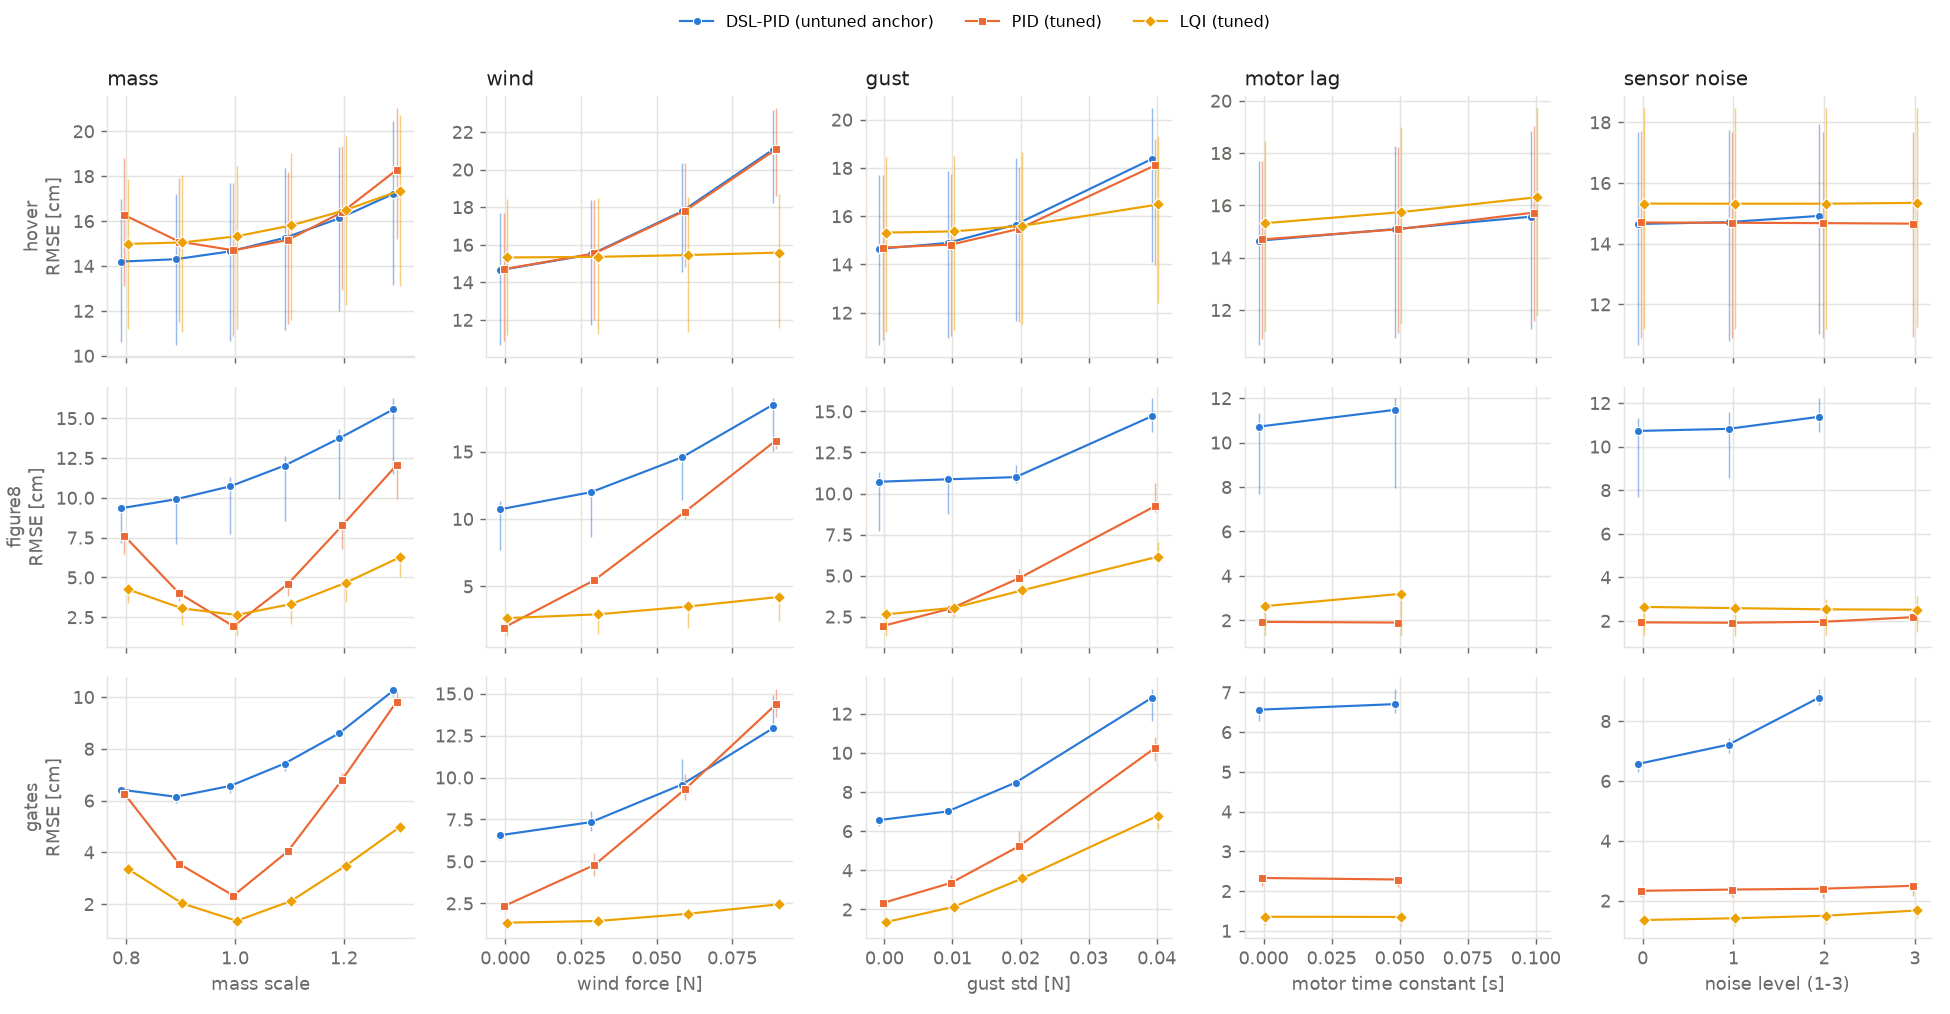
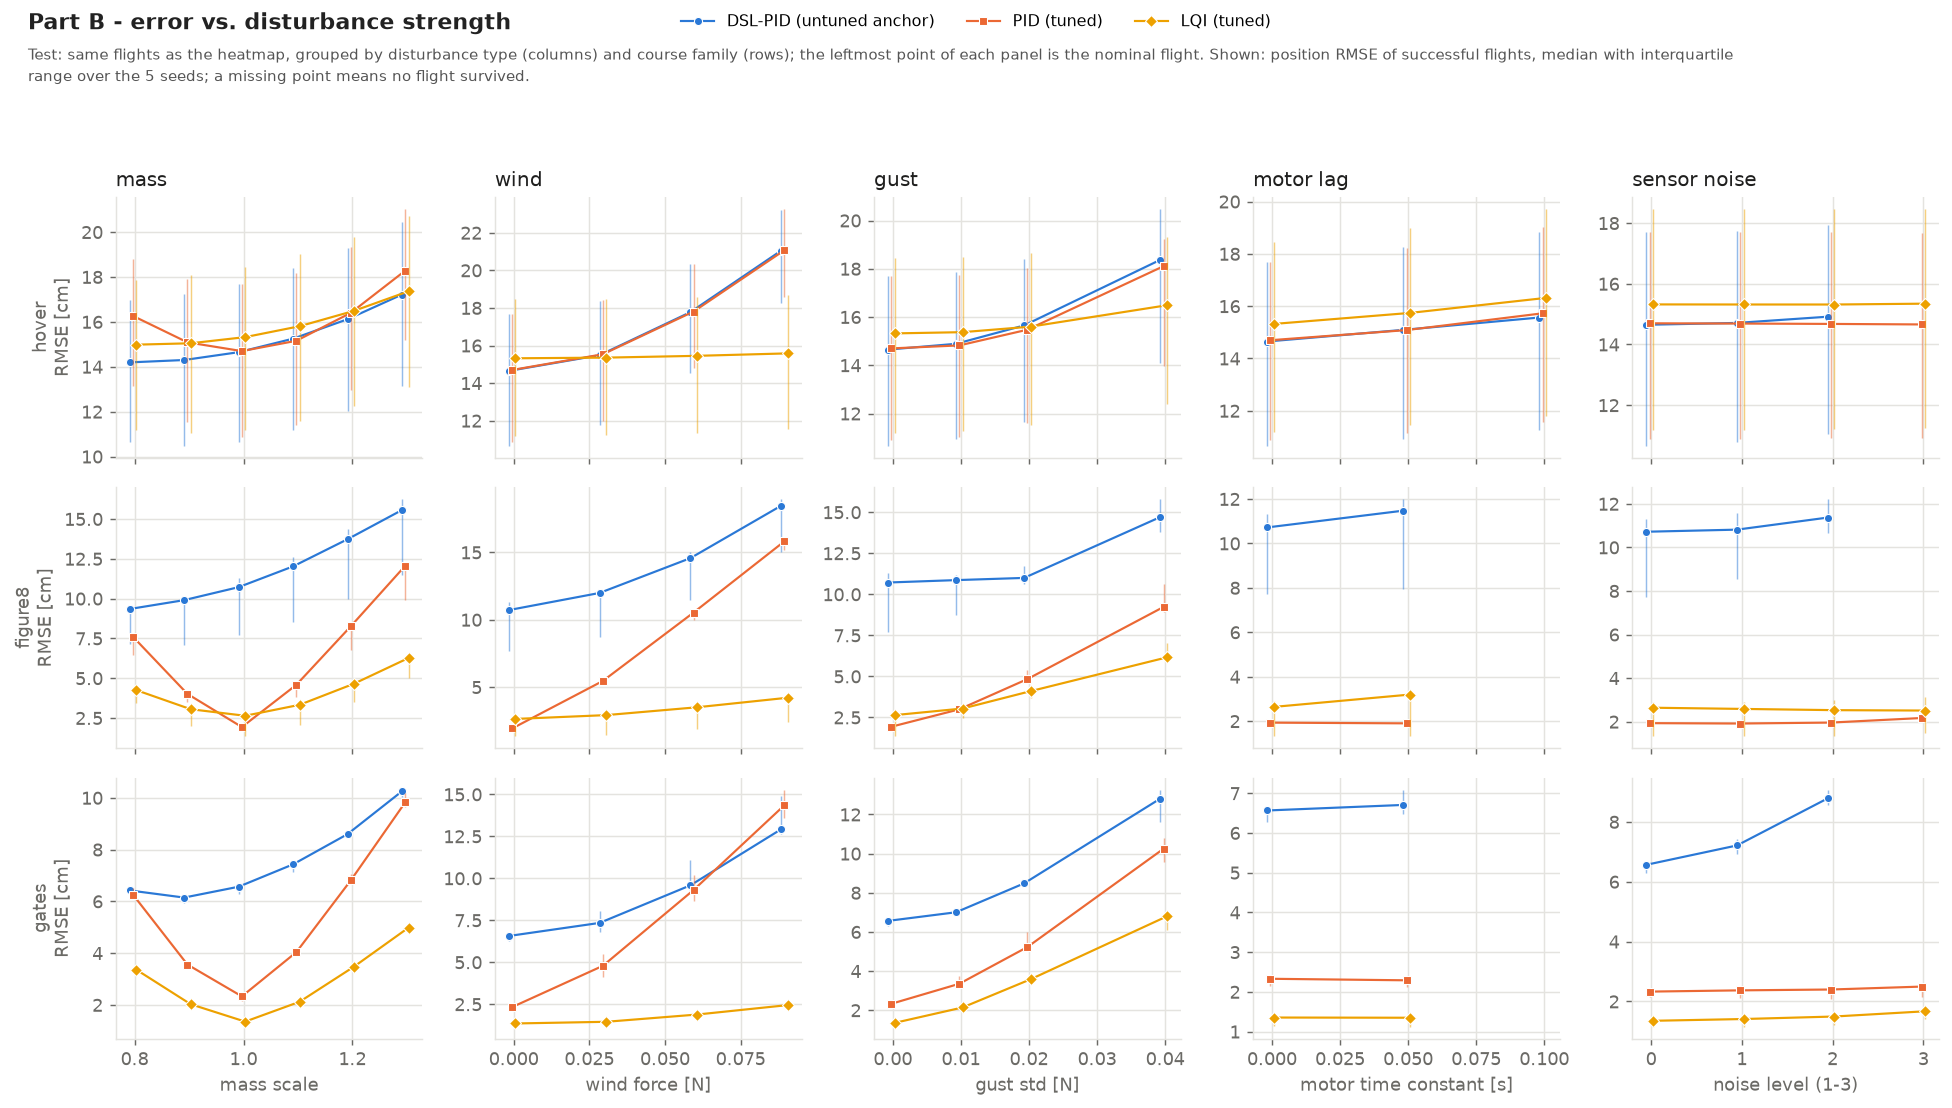
Figures with title and caption; refresh control and surrogate plots

diff --git a/projects/control/scripts/analyze.py b/projects/control/scripts/analyze.py
@@ -27,6 +27,7 @@ from matplotlib.colors import LinearSegmentedColormap  # noqa: E402
 from matplotlib.ticker import FormatStrFormatter, NullFormatter  # noqa: E402
 from scipy.stats import wilcoxon  # noqa: E402
 
+from dronelab.core.eval.plots import save_captioned  # noqa: E402
 from dronelab.core.eval.scenarios import scenario_order  # noqa: E402
 
 # fixed categorical order (colour follows the controller, never its rank)
@@ -161,7 +162,12 @@ def part_a(rows, ctrls, out: Path) -> list[str]:
     fig.legend(*np.atleast_1d(axes)[0].get_legend_handles_labels(), loc="upper center",
                ncol=len(ctrls), frameon=False, fontsize=9)
     fig.tight_layout(rect=(0, 0, 1, 0.9))
-    fig.savefig(out / "speed_sweep.png", dpi=130)
+    save_captioned(fig, out / "speed_sweep.png", "Part A - tracking error vs. path speed",
+                   "Test: every controller flies the same courses (5 test seeds per family) "
+                   "at a constant speed, without disturbances. Shown: position RMSE of the "
+                   "successful flights per course family, median with interquartile range "
+                   "(log scale). Grey area: speeds above 1.5 m/s, outside the tuning range "
+                   "(extrapolation).")
     plt.close(fig)
     return md + ["", f"![speed sweep]({link(out / 'speed_sweep.png')})", ""]
 
@@ -228,9 +234,13 @@ def part_b(rows, ctrls, out: Path) -> list[str]:
     cb = fig.colorbar(im, ax=axes, fraction=0.02, pad=0.01)
     cb.set_label("log2(RMSE / RMSE nominal)", color=MUTED)
     cb.outline.set_visible(False)
-    fig.suptitle("Degradation per family; % = success rate (if < 100 %)", color=INK,
-                 fontsize=10, x=0.01, ha="left")
-    fig.savefig(out / "disturbance_heatmap.png", dpi=130, bbox_inches="tight")
+    save_captioned(fig, out / "disturbance_heatmap.png", "Part B - degradation under "
+                   "disturbances",
+                   "Test: hover, figure-eight and gate courses at 1 m/s (5 test seeds) under "
+                   "each disturbance scenario. Shown: median RMSE relative to the same "
+                   "controller's nominal flights (1.0 = no degradation, colour = log2 of the "
+                   "ratio); a percentage below the number is the success rate if flights "
+                   "crashed, '-' = no successful flight.")
     plt.close(fig)
 
     # degradation curves: rows = families, columns = disturbance kinds, median + IQR
@@ -257,7 +267,12 @@ def part_b(rows, ctrls, out: Path) -> list[str]:
     fig.legend(*axes[0, 0].get_legend_handles_labels(), loc="upper center", ncol=len(ctrls),
                frameon=False, fontsize=9)
     fig.tight_layout(rect=(0, 0, 1, 0.95))
-    fig.savefig(out / "degradation.png", dpi=130)
+    save_captioned(fig, out / "degradation.png", "Part B - error vs. disturbance strength",
+                   "Test: same flights as the heatmap, grouped by disturbance type (columns) "
+                   "and course family (rows); the leftmost point of each panel is the "
+                   "nominal flight. Shown: position RMSE of successful flights, median with "
+                   "interquartile range over the 5 seeds; a missing point means no flight "
+                   "survived.")
     plt.close(fig)
     return md + [f"![heatmap]({link(out / 'disturbance_heatmap.png')})", "",
                  "Degradation curves (median, bars = interquartile range of the 5 seeds; "
@@ -333,10 +348,13 @@ def tuning_convergence(tdir: Path, ctrls, out: Path) -> list[str]:
     ax.set_ylim(lo * 0.95, hi)
     style(ax, "trial", "objective J (lower is better)")
     ax.legend(frameon=False, fontsize=8)
-    ax.set_title("Tuning convergence (line = best so far, dots = single trials)",
-                 color=INK, fontsize=10, loc="left")
     fig.tight_layout()
-    fig.savefig(out / "tuning_convergence.png", dpi=130)
+    save_captioned(fig, out / "tuning_convergence.png", "Tuning convergence",
+                   "Test: Optuna TPE, 200 trials per controller; each trial flies 8 nominal "
+                   "episodes (hover, figure-eight, helix, waypoints; tuning seeds 0-99). "
+                   "Shown: objective J of every trial (dots) and the best J so far (line); "
+                   "lower is better, trial 0 = hand-set default gains. A flat line at the "
+                   "end means the budget was sufficient.")
     plt.close(fig)
     return ["Tuning convergence – " + "; ".join(md) + ".", "",
             f"![tuning convergence]({link(out / 'tuning_convergence.png')})", ""]
@@ -368,7 +386,12 @@ def pareto(rows, ctrls, out: Path) -> list[str]:
     fig.legend(*np.atleast_1d(axes)[0].get_legend_handles_labels(), loc="upper center",
                ncol=len(ctrls), frameon=False, fontsize=9)
     fig.tight_layout(rect=(0, 0, 1, 0.9))
-    fig.savefig(out / "accuracy_vs_smoothness.png", dpi=130)
+    save_captioned(fig, out / "accuracy_vs_smoothness.png", "Accuracy vs. smoothness",
+                   "Test: the nominal speed sweep (Part A), one dot per flight. Shown: "
+                   "position RMSE (x) against the mean change of the motor commands per "
+                   "control step (y), both log scale. Lower left is better; a controller can "
+                   "buy accuracy with more aggressive commands, which the tuning objective "
+                   "penalises (weight 0.3).")
     plt.close(fig)
     return ["### Accuracy vs. smoothness (Part A, one dot per flight)", "",
             "Lower left is better. A controller can buy accuracy with more aggressive motor "
@@ -420,10 +443,13 @@ def saturation(flights: list[Path], ctrls, out: Path) -> list[str]:
     ax.set_xticks(range(len(scen)), scen, rotation=60, ha="right", fontsize=8)
     style(ax, "", "steps saturated [%]")
     ax.legend(frameon=False, fontsize=8, ncol=len(ctrls), loc="upper left")
-    ax.set_title("Motor saturation under disturbances (figure8 + gates, 1 m/s, mean)",
-                 color=INK, fontsize=10, loc="left")
     fig.tight_layout()
-    fig.savefig(out / "saturation.png", dpi=130)
+    save_captioned(fig, out / "saturation.png", "Motor saturation under disturbances",
+                   "Test: Part B, figure-eight and gate courses at 1 m/s, crashed flights "
+                   "included. Shown: share of control steps in which at least one motor "
+                   "command sits at its limit (max rpm or the minimum), mean over flights. "
+                   "Saturated motors mean the controller asks for more than the drone can "
+                   "deliver.")
     plt.close(fig)
     md += ["", "Nominal flights stay below the limits at every speed – the feasibility check "
            "admits only courses that need ≤ 80 % of the maximum thrust. Saturation appears "
@@ -478,10 +504,14 @@ def accel_bins(flights: list[Path], ctrls, out: Path) -> list[str]:
                                                                       strict=True)], fontsize=8)
     style(ax, "reference acceleration [m/s²]", "position error [cm]")
     ax.legend(frameon=False, fontsize=8, ncol=2, loc="upper left")
-    ax.set_title("Error per control step vs. required acceleration "
-                 "(Part A, all path courses and speeds)", color=INK, fontsize=10, loc="left")
     fig.tight_layout()
-    fig.savefig(out / "error_vs_acceleration.png", dpi=130)
+    save_captioned(fig, out / "error_vs_acceleration.png", "Tracking error vs. required "
+                   "acceleration",
+                   "Test: every control step of the nominal speed sweep (Part A, all path "
+                   "courses and speeds), sorted by the acceleration the reference demands at "
+                   "that moment (straights ~0, tight turns and braking > 4 m/s2). Shown: "
+                   "median position error per bin, whiskers = interquartile range, log "
+                   "scale; the number of steps per bin is below the label.")
     plt.close(fig)
     return ["### Error vs. required acceleration (per control step)", "",
             "Every control step of the nominal speed sweep is sorted by the reference "
@@ -504,8 +534,8 @@ def link(p: Path) -> str:
 
 def main() -> None:
     ap = argparse.ArgumentParser()
-    ap.add_argument("--csv", default="projects/control/results/benchmark/stage1.csv")
-    ap.add_argument("--tuning", default="projects/control/results/tuning")
+    ap.add_argument("--csv", default="projects/control/results/benchmark/r1.csv")
+    ap.add_argument("--tuning", default="projects/control/results/tuning_real")
     ap.add_argument("--readme", default="projects/control/README.md")
     ap.add_argument("--flights", nargs="+", default=None,
                     help="flight-log folders (default: FLIGHT_DIRS[<name>] or data/flights/<name>)")

diff --git a/projects/surrogate/scripts/analyze.py b/projects/surrogate/scripts/analyze.py
@@ -22,12 +22,15 @@ import matplotlib.pyplot as plt  # noqa: E402
 import numpy as np  # noqa: E402
 from scipy.stats import wilcoxon  # noqa: E402
 
+from dronelab.core.eval.plots import save_captioned  # noqa: E402
 from dronelab.surrogate.datasets import T2_MAX_SPEED  # noqa: E402
 from dronelab.surrogate.evaluate import HORIZONS  # noqa: E402
 
 KINDS = ("phys_urdf", "phys", "phys_mlp", "mlp")
 LABEL = {"phys_urdf": "phys (URDF)", "phys": "phys", "phys_mlp": "phys+mlp", "mlp": "mlp"}
 COLOR = {"phys_urdf": "#9467bd", "phys": "#7f7f7f", "phys_mlp": "#1f77b4", "mlp": "#d62728"}
+OPEN_LOOP = ("Open-loop: from many start points on each test flight the model predicts ahead "
+             "with the recorded motor commands only, never seeing the true state again. ")
 TIMING_KEY = {"phys_urdf": "phys", "phys": "phys", "phys_mlp": "phys+mlp", "mlp": "mlp"}
 SET_DESC = {"T1": "in distribution: new flights like training",
             "T2": "speed extrapolation: T1 flights > 1.5 m/s",
@@ -143,11 +146,16 @@ def disturbance_section(root: Path, figs: Path, res: dict, flights: dict, md: li
     ax.set_xticks(x, labels, rotation=45, ha="right", fontsize=8)
     ax.set_yscale("log")
     ax.set_ylabel(f"position error at {H_TXT[20]} [cm]")
-    ax.set_title("Disturbance estimation: pale = without, solid = with the estimate (median)")
     ax.grid(alpha=0.3, axis="y", which="both")
     ax.legend(fontsize=8)
     fig.tight_layout()
-    fig.savefig(figs / "disturbance_estimation.png", dpi=120)
+    save_captioned(fig, figs / "disturbance_estimation.png", "Disturbance estimation",
+                   OPEN_LOOP +
+                   "Before each prediction a constant extra force and torque is estimated "
+                   "from the one-step errors of the last 4 known steps (83 ms) and kept over "
+                   "the horizon. Shown: median position error after 0.42 s per T4 "
+                   "disturbance scenario (and undisturbed T1); pale bar = without, solid bar "
+                   "= with the estimate, log scale.", dpi=120)
     plt.close(fig)
 
 
@@ -185,7 +193,13 @@ def training_curves(models_dir: Path, figs: Path, kind: str) -> None:
         ax.legend(fontsize=7)
     axes[0][0].set_ylabel("scaled rollout loss (20 steps)")
     fig.tight_layout()
-    fig.savefig(figs / f"training_{kind}.png", dpi=120)
+    save_captioned(fig, figs / f"training_{kind}.png", f"Training curves - {LABEL[kind]}",
+                   "Loss = scaled error of 20-step open-loop rollouts (position, velocity, "
+                   "attitude, body rates). Dashed = training loss, solid = validation loss "
+                   "per seed; star = epoch whose weights are kept. Left: trained on all "
+                   "flights, right: only flights <= 1.5 m/s (validated on slow flights too, "
+                   "so the levels are not comparable). Grey: horizon grows from 5 to 20 "
+                   "steps, loss values there are not comparable.", dpi=120)
     plt.close(fig)
 
 
@@ -371,11 +385,14 @@ def main() -> None:
         ax.grid(alpha=0.3, which="both")
     axes[0].set_ylabel("position error [cm]")
     axes[-1].legend(fontsize=7)
-    fig.suptitle("Open-loop position error over the horizon (median; band = IQR of the "
-                 "full-data models; dotted = trained on slow flights only; dashed line = "
-                 "0.42 s MPC horizon)", fontsize=10)
     fig.tight_layout()
-    fig.savefig(figs / "error_over_horizon.png", dpi=120)
+    save_captioned(fig, figs / "error_over_horizon.png", "Prediction error over the horizon",
+                   OPEN_LOOP +
+                   "Shown: position error after 1 step (21 ms) up to 2 s, median over test "
+                   "flights, both axes log scale. Solid = trained on all flights (band = "
+                   "interquartile range), dotted = trained only on flights <= 1.5 m/s; "
+                   "dashed vertical line = 0.42 s, the MPC horizon and training horizon.",
+                   dpi=120)
     plt.close(fig)
 
     # 2. error vs momentary speed and height (T1 + slow variant to show extrapolation)
@@ -401,9 +418,14 @@ def main() -> None:
         ax.set_ylabel(f"position error at {H_TXT[20]} [cm]")
         ax.grid(alpha=0.3, which="both")
     axes[0].legend(fontsize=7)
-    fig.suptitle("T1 rollouts grouped by the momentary condition (median over rollouts)")
     fig.tight_layout()
-    fig.savefig(figs / "error_vs_condition.png", dpi=120)
+    save_captioned(fig, figs / "error_vs_condition.png", "Error by flight condition (T1)",
+                   OPEN_LOOP +
+                   "Rollouts on the T1 test flights are grouped by the speed (left) and "
+                   "height (right) at their start. Shown: median position error after "
+                   "0.42 s per group, log scale. Dotted = trained only on flights <= 1.5 m/s "
+                   "(dashed line): right of it is speed extrapolation; low heights show the "
+                   "ground effect.", dpi=120)
     plt.close(fig)
 
     # 3. accuracy vs compute
@@ -421,7 +443,11 @@ def main() -> None:
         ax.grid(alpha=0.3, which="both")
         ax.legend()
         fig.tight_layout()
-        fig.savefig(figs / "accuracy_vs_compute.png", dpi=120)
+        save_captioned(fig, figs / "accuracy_vs_compute.png", "Accuracy vs. compute",
+                       "x: time to predict 512 command sequences of 20 steps at once (what a "
+                       "sampling MPC needs per control step), one CPU thread. y: median "
+                       "position error after 0.42 s on T1. Lower left is better; a control "
+                       "step at 48 Hz has 21 ms.", dpi=120)
         plt.close(fig)
 
     # 4. example rollouts
@@ -447,10 +473,14 @@ def main() -> None:
                 ax.set_xlabel("x [m]")
                 ax.legend(fontsize=7, loc="upper right")
             axes[0][0].set_ylabel("y [m]")
-            fig.suptitle(f"Open-loop predictions every 0.5 s along a T3 flight "
-                         f"({ex['name']}), seed-0 models")
             fig.tight_layout()
-            fig.savefig(figs / "example_rollouts.png", dpi=120)
+            save_captioned(
+                fig, figs / "example_rollouts.png", "Example predictions on a benchmark flight",
+                f"Flight {ex['name']} (LQI, figure-eight at 2 m/s, top view). Every 0.5 s a "
+                f"prediction starts from the true state (dot) and runs "
+                f"{float(ex['horizon_s']):.0f} s ahead with the recorded motor commands only. "
+                "Black = true path; a line that leaves it shows how the model drifts. Seed-0 "
+                "models, trained on all flights.", dpi=120)
             plt.close(fig)
 
     training_curves(root / "models", figs, "mlp")

diff --git a/projects/control/scripts/plot_course.py b/projects/control/scripts/plot_course.py
@@ -23,6 +23,7 @@ from dronelab.control import make_controller  # noqa: E402
 from dronelab.core.backends.pybullet_backend import PyBulletBackend  # noqa: E402
 from dronelab.core.config import DisturbanceConfig, SimConfig  # noqa: E402
 from dronelab.core.eval import compute_metrics, run_episode  # noqa: E402
+from dronelab.core.eval.plots import save_captioned  # noqa: E402
 from dronelab.core.tasks import make_course  # noqa: E402
 from dronelab.core.world import DEFAULT_WORLD, WORLDS, resolve  # noqa: E402
 
@@ -110,13 +111,17 @@ def main() -> None:
         if k == 2:
             handles, labels = ax.get_legend_handles_labels()
     fig.legend(handles, labels, loc="lower center", ncol=3, frameon=False, fontsize=8.5)
-    fig.suptitle(f"{args.course} @ {args.speed:g} m/s, seed {args.seed}", color=INK,
-                 fontsize=11, x=0.02, ha="left")
     fig.tight_layout(rect=(0, 0.07, 1, 0.97))
     out = Path(args.out)
     out.mkdir(parents=True, exist_ok=True)
     path = out / f"{args.course}_{args.speed:g}ms_seed{args.seed}.png"
-    fig.savefig(path, dpi=130)
+    save_captioned(
+        fig, path, f"{args.course} course at {args.speed:g} m/s (seed {args.seed}, "
+                   f"{args.world} world)",
+        "Every controller flies the same generated course from the same start, without "
+        "disturbances. Shown: the flown paths against the reference (dashed) in 3D and in "
+        "three projections; the axes are not to scale, so small lateral deviations stay "
+        "visible. Legend: position RMSE and passed gates per controller.")
     print(f"figure -> {path}")
 
 

diff --git a/src/dronelab/core/eval/plots.py b/src/dronelab/core/eval/plots.py
@@ -1,7 +1,8 @@
-"""Static plots of a flown trajectory."""
+"""Static plots of a flown trajectory, and saving figures with a caption."""
 
 from __future__ import annotations
 
+import textwrap
 from pathlib import Path
 
 import matplotlib
@@ -46,3 +47,21 @@ def plot_trajectory(traj: Trajectory, path: str | Path, title: str = "") -> Path
     fig.savefig(path, dpi=120)
     plt.close(fig)
     return path
+
+
+def save_captioned(fig, path: str | Path, title: str, text: str, dpi: int = 130) -> Path:
+    """Save ``fig`` with a bold title and a short description above it.
+
+    The description says what was tested and what is shown, so the figure can be read without
+    the README. Both sit above the existing layout (y > 1), ``bbox_inches="tight"`` keeps them.
+    """
+    w, h = fig.get_size_inches()
+    lines = textwrap.wrap(text, width=max(50, int(w * 15)))
+    line_h = 8.5 * 1.4 / 72  # inches per caption line
+    y0 = 1 + 0.1 / h
+    fig.text(0.01, y0, "\n".join(lines), ha="left", va="bottom", fontsize=8.5, color="#555555",
+             linespacing=1.4)
+    fig.text(0.01, y0 + (len(lines) * line_h + 0.08) / h, title, ha="left", va="bottom",
+             fontsize=12, weight="bold", color="#222222")
+    fig.savefig(path, dpi=dpi, bbox_inches="tight")
+    return Path(path)
